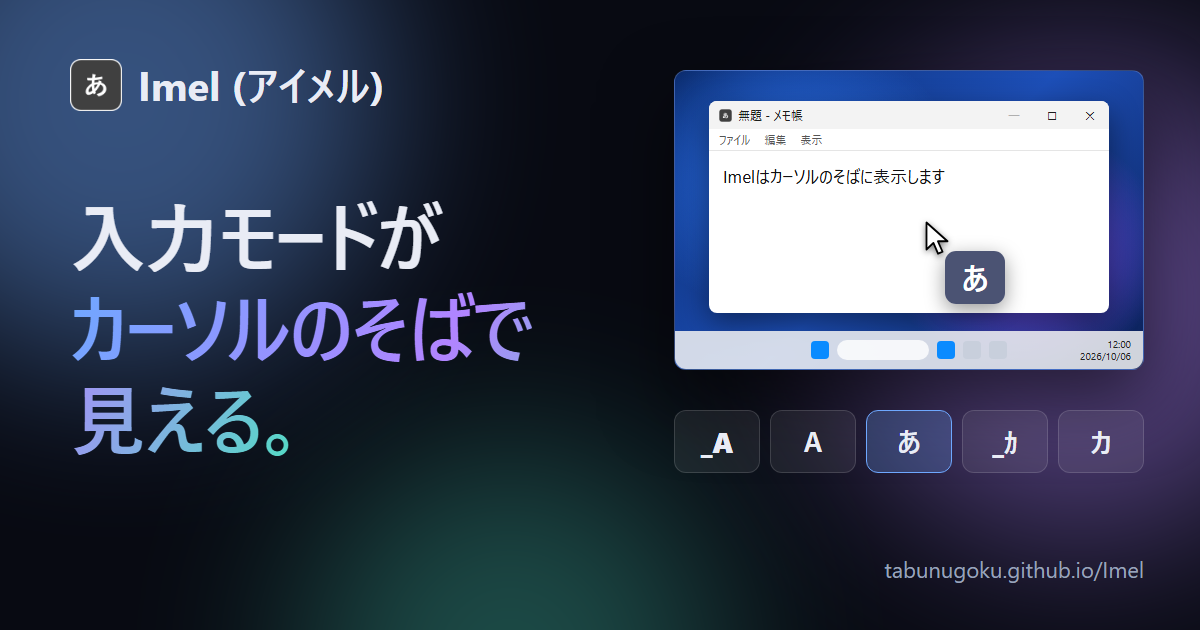
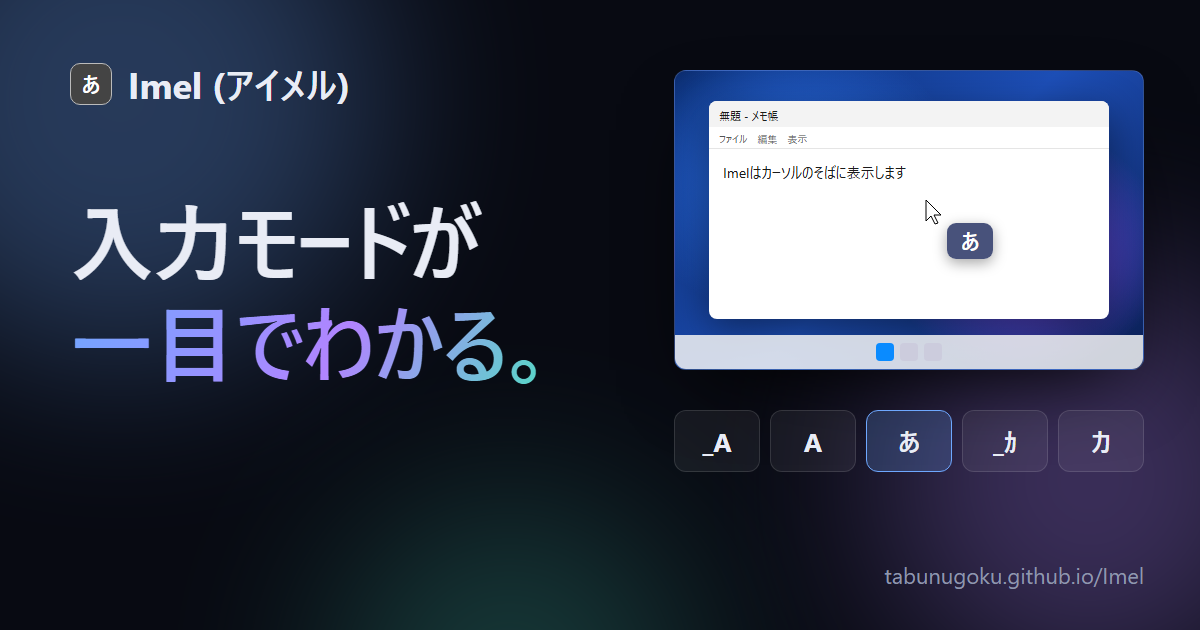
Shorten landing page catchphrase (#15)
* Shorten landing page catchphrase

* Update OGP image for the new catchphrase

* Update social preview image for the new catchphrase

---------

diff --git a/docs/index.html b/docs/index.html
@@ -6,7 +6,7 @@
 <title>Imel (アイメル) - IME状態をカーソルのそばに</title>
 <meta name="description" content="Imelは、マウスカーソルのすぐそばに現在のIME入力モードを表示する常駐ツールです。">
 <meta property="og:title" content="Imel (アイメル)">
-<meta property="og:description" content="入力モードがカーソルのそばで見える。IME状態表示ツール。">
+<meta property="og:description" content="入力モードが一目でわかる。IME状態表示ツール。">
 <meta property="og:type" content="website">
 <meta property="og:url" content="https://tabunugoku.github.io/Imel/">
 <meta property="og:image" content="https://tabunugoku.github.io/Imel/ogp.png">
@@ -150,7 +150,7 @@ footer a{text-decoration:underline}
 </div></nav>
 
 <header class="hero wrap" id="top">
-  <h1 class="reveal">入力モードが<br><span class="grad">カーソルの<wbr>そばで見える。</span></h1>
+  <h1 class="reveal">入力モードが<br><span class="grad">一目でわかる。</span></h1>
   <p class="lead reveal">マウスカーソルのすぐ横に、「あ」「_A」などの現在のIME状態を表示します。</p>
   <div class="cta reveal">
     <a class="btn primary" href="https://github.com/tabunugoku/Imel/releases/latest">最新版をダウンロード</a>
